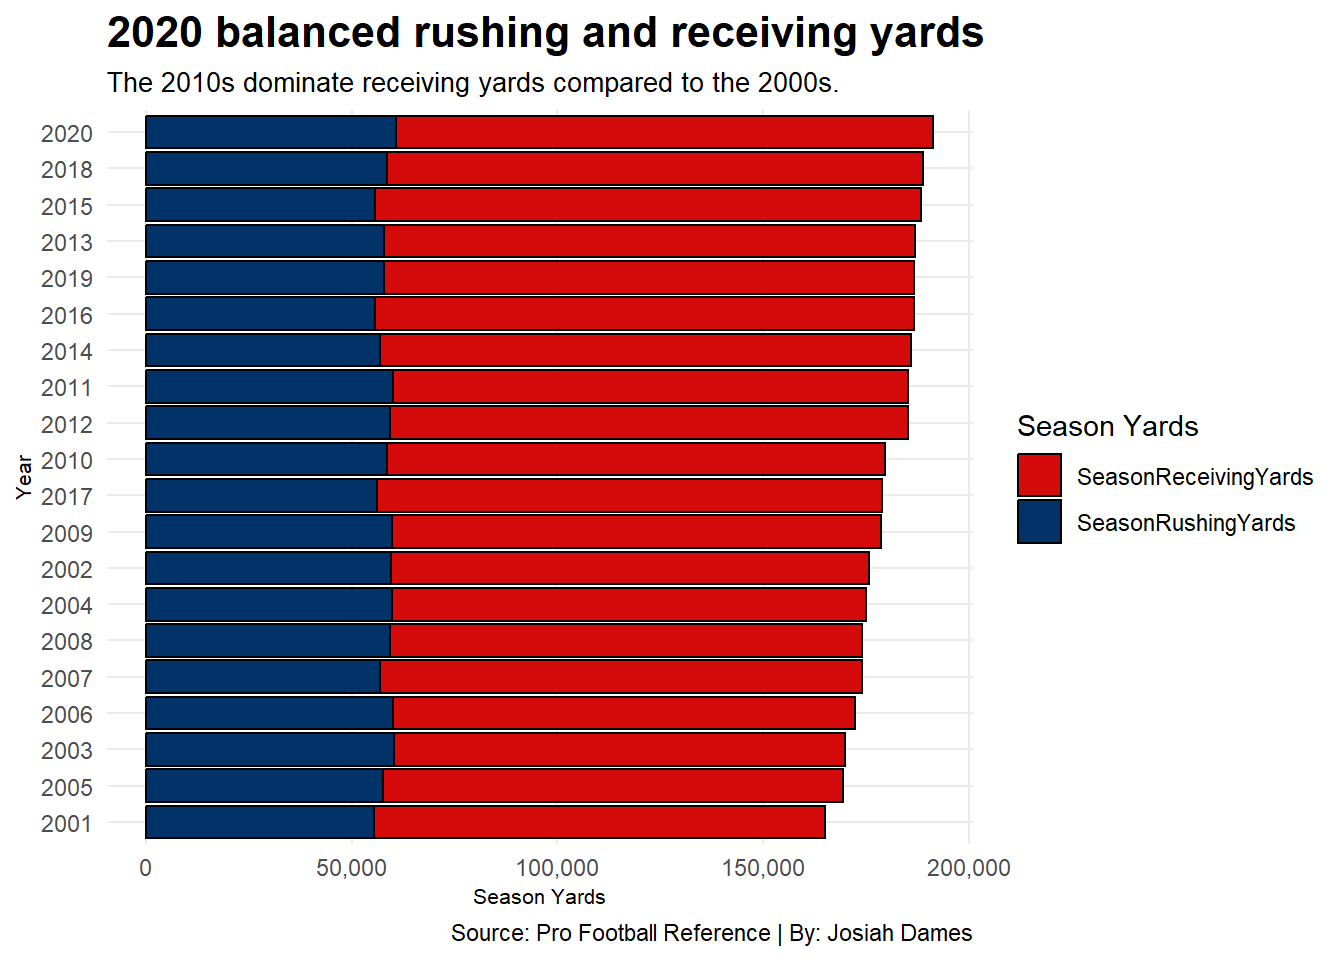
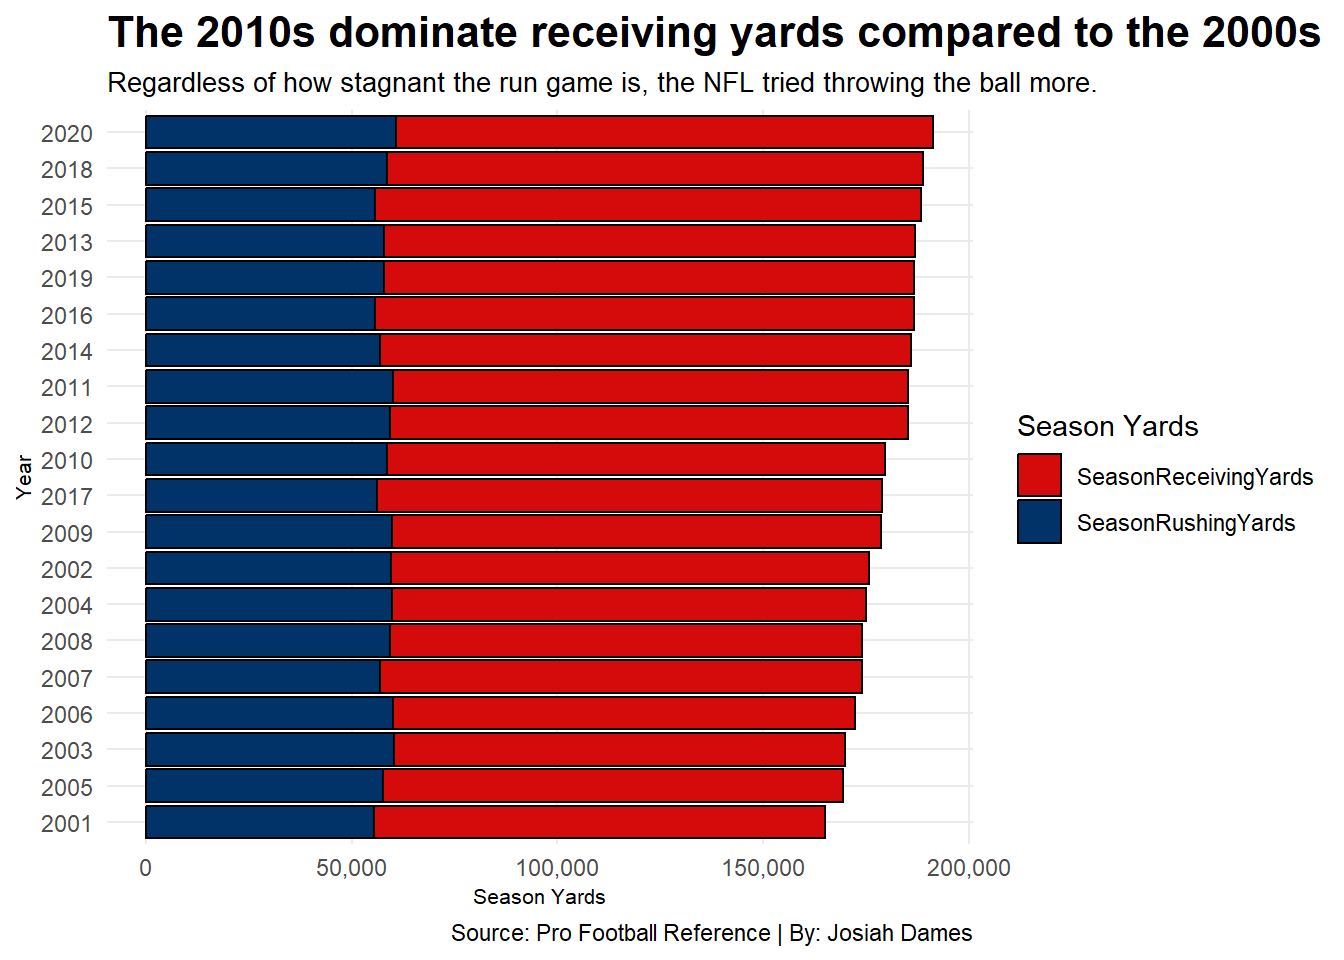
Initial Commit

Changed region(s): [[0.0625, 0.0, 1.0, 0.0938]]

diff --git a/posts/nfl-passing-or-rushing-league/index.html b/posts/nfl-passing-or-rushing-league/index.html
@@ -236,8 +236,8 @@ pre > code.sourceCode > span > a:first-child::before { text-decoration: underlin
 <span id="cb2-26"><a href="#cb2-26" aria-hidden="true" tabindex="-1"></a>  <span class="fu">theme_minimal</span>() <span class="sc">+</span></span>
 <span id="cb2-27"><a href="#cb2-27" aria-hidden="true" tabindex="-1"></a>  <span class="fu">labs</span>(</span>
 <span id="cb2-28"><a href="#cb2-28" aria-hidden="true" tabindex="-1"></a>    <span class="at">x =</span> <span class="st">"Rushing Yards"</span>, <span class="at">y =</span> <span class="st">"Receiving Yards"</span>,</span>
-<span id="cb2-29"><a href="#cb2-29" aria-hidden="true" tabindex="-1"></a>    <span class="at">title =</span> <span class="st">"The NFL lacks consistency on the run game"</span>,</span>
-<span id="cb2-30"><a href="#cb2-30" aria-hidden="true" tabindex="-1"></a>    <span class="at">subtitle =</span> <span class="st">"The 2010s emphasized offense in the air more than the 2000s, especially in the mid-2010s."</span>,</span>
+<span id="cb2-29"><a href="#cb2-29" aria-hidden="true" tabindex="-1"></a>    <span class="at">title =</span> <span class="st">"NFL offenses lack consistency on the run game"</span>,</span>
+<span id="cb2-30"><a href="#cb2-30" aria-hidden="true" tabindex="-1"></a>    <span class="at">subtitle =</span> <span class="st">"2020 was probably the most balanced year between both offenses ever."</span>,</span>
 <span id="cb2-31"><a href="#cb2-31" aria-hidden="true" tabindex="-1"></a>    <span class="at">caption =</span> <span class="st">"Source: Pro Football Reference | By: Josiah Dames"</span></span>
 <span id="cb2-32"><a href="#cb2-32" aria-hidden="true" tabindex="-1"></a>  ) <span class="sc">+</span></span>
 <span id="cb2-33"><a href="#cb2-33" aria-hidden="true" tabindex="-1"></a>  <span class="fu">geom_text</span>(</span>
@@ -291,7 +291,8 @@ pre > code.sourceCode > span > a:first-child::before { text-decoration: underlin
 </details>
 </div>
 <p>As we look at the two decades of football, the 2000s show that they emphasize the run game a lot more and there isn’t much difference between the yards in the air or on the ground. The 2010s, however, were all over the place.</p>
-<p>(WHAT WAS GOING ON IN THE NFL AT THAT TIME???)</p>
+<p>According to <a href="https://www.foxsports.com/stories/nfl/the-nfls-offense-of-the-decade/">Fox Sports</a>, the 2010s offense was solely in the air. This can be proven by many teams’ offensive statistics. The teams that were noted were the 2011 New Orleans Saints, 2011 Green Bay Packers, 2013 Denver Broncos, 2016 Atlanta Falcons, 2018 Kansas City Chiefs, and 2019 Baltimore Ravens. By itself, the Falcons’ Super Bowl LI run in 2016 had quarterback Matt Ryan throwing for almost 5,000 yards and 38 touchdowns in the regular season with the offense the highest grade offense since in the 2010s at 94.1. That is very impressive.</p>
+<p>This leads to the next question: how much did the rushing and passing game change by year? In order to see the dip in rushing and rise in passing offense, we need to see each year side by side.</p>
 <p>The 2000s will be colored Rosso Corsa and the 2010s will be colored Dark Midnight Blue.</p>
 <div class="cell">
 <details class="code-fold">
@@ -303,15 +304,15 @@ pre > code.sourceCode > span > a:first-child::before { text-decoration: underlin
 <span id="cb4-5"><a href="#cb4-5" aria-hidden="true" tabindex="-1"></a>  <span class="fu">filter</span>(Year <span class="sc">&gt;=</span> <span class="dv">2011</span> <span class="sc">&amp;</span> Year <span class="sc">&lt;=</span> <span class="dv">2020</span>)</span>
 <span id="cb4-6"><a href="#cb4-6" aria-hidden="true" tabindex="-1"></a></span>
 <span id="cb4-7"><a href="#cb4-7" aria-hidden="true" tabindex="-1"></a><span class="fu">ggplot</span>() <span class="sc">+</span> </span>
-<span id="cb4-8"><a href="#cb4-8" aria-hidden="true" tabindex="-1"></a>  <span class="fu">geom_line</span>(<span class="at">data=</span>nfl, <span class="fu">aes</span>(<span class="at">x=</span>Year, <span class="at">y=</span>RushingYards), <span class="at">color=</span><span class="st">"grey"</span>) <span class="sc">+</span></span>
-<span id="cb4-9"><a href="#cb4-9" aria-hidden="true" tabindex="-1"></a>  <span class="fu">geom_line</span>(<span class="at">data=</span>decadeone, <span class="fu">aes</span>(<span class="at">x=</span>Year, <span class="at">y=</span>RushingYards), <span class="at">color=</span><span class="st">"#d50a0a"</span>) <span class="sc">+</span></span>
-<span id="cb4-10"><a href="#cb4-10" aria-hidden="true" tabindex="-1"></a>  <span class="fu">geom_line</span>(<span class="at">data=</span>decadetwo, <span class="fu">aes</span>(<span class="at">x=</span>Year, <span class="at">y=</span>RushingYards), <span class="at">color=</span><span class="st">"#013369"</span>) <span class="sc">+</span></span>
+<span id="cb4-8"><a href="#cb4-8" aria-hidden="true" tabindex="-1"></a>  <span class="fu">geom_line</span>(<span class="at">data=</span>nfl, <span class="fu">aes</span>(<span class="at">x=</span>Year, <span class="at">y=</span>ReceivingYards), <span class="at">color=</span><span class="st">"grey"</span>) <span class="sc">+</span></span>
+<span id="cb4-9"><a href="#cb4-9" aria-hidden="true" tabindex="-1"></a>  <span class="fu">geom_line</span>(<span class="at">data=</span>decadeone, <span class="fu">aes</span>(<span class="at">x=</span>Year, <span class="at">y=</span>ReceivingYards), <span class="at">color=</span><span class="st">"#d50a0a"</span>) <span class="sc">+</span></span>
+<span id="cb4-10"><a href="#cb4-10" aria-hidden="true" tabindex="-1"></a>  <span class="fu">geom_line</span>(<span class="at">data=</span>decadetwo, <span class="fu">aes</span>(<span class="at">x=</span>Year, <span class="at">y=</span>ReceivingYards), <span class="at">color=</span><span class="st">"#013369"</span>) <span class="sc">+</span></span>
 <span id="cb4-11"><a href="#cb4-11" aria-hidden="true" tabindex="-1"></a>  <span class="fu">labs</span>(</span>
-<span id="cb4-12"><a href="#cb4-12" aria-hidden="true" tabindex="-1"></a>    <span class="at">y =</span> <span class="st">"Rushing Yards"</span>,</span>
+<span id="cb4-12"><a href="#cb4-12" aria-hidden="true" tabindex="-1"></a>    <span class="at">y =</span> <span class="st">"Receiving Yards"</span>,</span>
 <span id="cb4-13"><a href="#cb4-13" aria-hidden="true" tabindex="-1"></a>    <span class="at">x =</span> <span class="st">"Year"</span>,</span>
-<span id="cb4-14"><a href="#cb4-14" aria-hidden="true" tabindex="-1"></a>    <span class="at">fill =</span> <span class="st">"Rushing Yards"</span>,</span>
-<span id="cb4-15"><a href="#cb4-15" aria-hidden="true" tabindex="-1"></a>    <span class="at">title =</span> <span class="st">"The run game failed in the 2010s"</span>,</span>
-<span id="cb4-16"><a href="#cb4-16" aria-hidden="true" tabindex="-1"></a>    <span class="at">subtitle =</span> <span class="st">"2004 had gained more yards while 2020 struggled to move the ball per attempt."</span>,</span>
+<span id="cb4-14"><a href="#cb4-14" aria-hidden="true" tabindex="-1"></a>    <span class="at">fill =</span> <span class="st">"Receiving Yards"</span>,</span>
+<span id="cb4-15"><a href="#cb4-15" aria-hidden="true" tabindex="-1"></a>    <span class="at">title =</span> <span class="st">"The pass game is surprisingly consistent the last two decades"</span>,</span>
+<span id="cb4-16"><a href="#cb4-16" aria-hidden="true" tabindex="-1"></a>    <span class="at">subtitle =</span> <span class="st">"The pass game's effectiveness drops in 2017 but the next few years picked up the slack."</span>,</span>
 <span id="cb4-17"><a href="#cb4-17" aria-hidden="true" tabindex="-1"></a>    <span class="at">caption =</span> <span class="st">"Source: Pro Football Reference | By: Josiah Dames"</span></span>
 <span id="cb4-18"><a href="#cb4-18" aria-hidden="true" tabindex="-1"></a>  ) <span class="sc">+</span></span>
 <span id="cb4-19"><a href="#cb4-19" aria-hidden="true" tabindex="-1"></a>  <span class="fu">scale_y_continuous</span>(<span class="at">labels =</span> scales<span class="sc">::</span>comma) <span class="sc">+</span></span>
@@ -333,19 +334,21 @@ pre > code.sourceCode > span > a:first-child::before { text-decoration: underlin
 </div>
 </div>
 </div>
+<p>We love our big pass plays now, they’re a lot more exciting to watch. Is the NFL trying to push for this kind of offense, just so it can get more clicks for crazy highlights by wide receivers? Maybe, but maybe there is something else to this.</p>
+<p>Let’s look at the run game throughout the last two decades.</p>
 <div class="cell">
 <details class="code-fold">
 <summary>Code</summary>
 <div class="sourceCode cell-code" id="cb5"><pre class="sourceCode r code-with-copy"><code class="sourceCode r"><span id="cb5-1"><a href="#cb5-1" aria-hidden="true" tabindex="-1"></a><span class="fu">ggplot</span>() <span class="sc">+</span> </span>
-<span id="cb5-2"><a href="#cb5-2" aria-hidden="true" tabindex="-1"></a>  <span class="fu">geom_line</span>(<span class="at">data=</span>nfl, <span class="fu">aes</span>(<span class="at">x=</span>Year, <span class="at">y=</span>ReceivingYards), <span class="at">color=</span><span class="st">"grey"</span>) <span class="sc">+</span></span>
-<span id="cb5-3"><a href="#cb5-3" aria-hidden="true" tabindex="-1"></a>  <span class="fu">geom_line</span>(<span class="at">data=</span>decadeone, <span class="fu">aes</span>(<span class="at">x=</span>Year, <span class="at">y=</span>ReceivingYards), <span class="at">color=</span><span class="st">"#d50a0a"</span>) <span class="sc">+</span></span>
-<span id="cb5-4"><a href="#cb5-4" aria-hidden="true" tabindex="-1"></a>  <span class="fu">geom_line</span>(<span class="at">data=</span>decadetwo, <span class="fu">aes</span>(<span class="at">x=</span>Year, <span class="at">y=</span>ReceivingYards), <span class="at">color=</span><span class="st">"#013369"</span>) <span class="sc">+</span></span>
+<span id="cb5-2"><a href="#cb5-2" aria-hidden="true" tabindex="-1"></a>  <span class="fu">geom_line</span>(<span class="at">data=</span>nfl, <span class="fu">aes</span>(<span class="at">x=</span>Year, <span class="at">y=</span>RushingYards), <span class="at">color=</span><span class="st">"grey"</span>) <span class="sc">+</span></span>
+<span id="cb5-3"><a href="#cb5-3" aria-hidden="true" tabindex="-1"></a>  <span class="fu">geom_line</span>(<span class="at">data=</span>decadeone, <span class="fu">aes</span>(<span class="at">x=</span>Year, <span class="at">y=</span>RushingYards), <span class="at">color=</span><span class="st">"#d50a0a"</span>) <span class="sc">+</span></span>
+<span id="cb5-4"><a href="#cb5-4" aria-hidden="true" tabindex="-1"></a>  <span class="fu">geom_line</span>(<span class="at">data=</span>decadetwo, <span class="fu">aes</span>(<span class="at">x=</span>Year, <span class="at">y=</span>RushingYards), <span class="at">color=</span><span class="st">"#013369"</span>) <span class="sc">+</span></span>
 <span id="cb5-5"><a href="#cb5-5" aria-hidden="true" tabindex="-1"></a>  <span class="fu">labs</span>(</span>
-<span id="cb5-6"><a href="#cb5-6" aria-hidden="true" tabindex="-1"></a>    <span class="at">y =</span> <span class="st">"Receiving Yards"</span>,</span>
+<span id="cb5-6"><a href="#cb5-6" aria-hidden="true" tabindex="-1"></a>    <span class="at">y =</span> <span class="st">"Rushing Yards"</span>,</span>
 <span id="cb5-7"><a href="#cb5-7" aria-hidden="true" tabindex="-1"></a>    <span class="at">x =</span> <span class="st">"Year"</span>,</span>
-<span id="cb5-8"><a href="#cb5-8" aria-hidden="true" tabindex="-1"></a>    <span class="at">fill =</span> <span class="st">"Receiving Yards"</span>,</span>
-<span id="cb5-9"><a href="#cb5-9" aria-hidden="true" tabindex="-1"></a>    <span class="at">title =</span> <span class="st">"Offense in the air consistently grows each year"</span>,</span>
-<span id="cb5-10"><a href="#cb5-10" aria-hidden="true" tabindex="-1"></a>    <span class="at">subtitle =</span> <span class="st">"2017 dropped the passing game's effectiveness but picked back up."</span>,</span>
+<span id="cb5-8"><a href="#cb5-8" aria-hidden="true" tabindex="-1"></a>    <span class="at">fill =</span> <span class="st">"Rushing Yards"</span>,</span>
+<span id="cb5-9"><a href="#cb5-9" aria-hidden="true" tabindex="-1"></a>    <span class="at">title =</span> <span class="st">"The run game was not the top priority in the 2010s"</span>,</span>
+<span id="cb5-10"><a href="#cb5-10" aria-hidden="true" tabindex="-1"></a>    <span class="at">subtitle =</span> <span class="st">"The mid-2010s had dropped productivity as low as 2001, which hadn't been seen in a decade."</span>,</span>
 <span id="cb5-11"><a href="#cb5-11" aria-hidden="true" tabindex="-1"></a>    <span class="at">caption =</span> <span class="st">"Source: Pro Football Reference | By: Josiah Dames"</span></span>
 <span id="cb5-12"><a href="#cb5-12" aria-hidden="true" tabindex="-1"></a>  ) <span class="sc">+</span></span>
 <span id="cb5-13"><a href="#cb5-13" aria-hidden="true" tabindex="-1"></a>  <span class="fu">scale_y_continuous</span>(<span class="at">labels =</span> scales<span class="sc">::</span>comma) <span class="sc">+</span></span>
@@ -367,8 +370,10 @@ pre > code.sourceCode > span > a:first-child::before { text-decoration: underlin
 </div>
 </div>
 </div>
-<p>However, when we look at both decades, there are some years that did better than others.</p>
-<p>Then this begs the question: where does each team rank individually with their rushing and receiving yards?</p>
+<p>If you were a running back in the mid-2010s, you were not getting enough love. Luckily, it looks like the trend for rushing is going up slowly. Fortunately, there is an explanation for this.</p>
+<p><a href="https://operations.nfl.com/gameday/analytics/stats-articles/how-defensive-schemes-are-shaping-the-nfls-passing-game-in-2024/">NFL Football Operations</a> explain that in recent seasons, the passing yards per game is slowly dropped from 496 in 2020 to 403 in 2024. This means that defenses across the league have slowly adjusted to the passing game. Defenses have embraced Cover 2, Cover 4, and Cover 6, and defenders are lining up farther back than in 2019. If this trend continues, maybe the NFL moves back to a more dominant rush league.</p>
+<p>However, every year is different than each other and random things occur, affecting both the run and passing games. There are some years that did better than others. This begs the question: where does each year rank individually with their rushing and receiving yards?</p>
+<p>The receiving yards will be colored Rosso Corsa and the rushing yards will be colored Dark Midnight Blue.</p>
 <div class="cell">
 <details class="code-fold">
 <summary>Code</summary>
@@ -397,8 +402,8 @@ pre > code.sourceCode > span > a:first-child::before { text-decoration: underlin
 <span id="cb6-23"><a href="#cb6-23" aria-hidden="true" tabindex="-1"></a>    <span class="at">y =</span> <span class="st">"Season Yards"</span>,</span>
 <span id="cb6-24"><a href="#cb6-24" aria-hidden="true" tabindex="-1"></a>    <span class="at">x =</span> <span class="st">"Year"</span>,</span>
 <span id="cb6-25"><a href="#cb6-25" aria-hidden="true" tabindex="-1"></a>    <span class="at">fill =</span> <span class="st">"Season Yards"</span>,</span>
-<span id="cb6-26"><a href="#cb6-26" aria-hidden="true" tabindex="-1"></a>    <span class="at">title =</span> <span class="st">"2020 balanced rushing and receiving yards"</span>,</span>
-<span id="cb6-27"><a href="#cb6-27" aria-hidden="true" tabindex="-1"></a>    <span class="at">subtitle =</span> <span class="st">"The 2010s dominate receiving yards compared to the 2000s."</span>,</span>
+<span id="cb6-26"><a href="#cb6-26" aria-hidden="true" tabindex="-1"></a>    <span class="at">title =</span> <span class="st">"The 2010s dominate receiving yards compared to the 2000s"</span>,</span>
+<span id="cb6-27"><a href="#cb6-27" aria-hidden="true" tabindex="-1"></a>    <span class="at">subtitle =</span> <span class="st">"Regardless of how stagnant the run game is, the NFL tried throwing the ball more."</span>,</span>
 <span id="cb6-28"><a href="#cb6-28" aria-hidden="true" tabindex="-1"></a>    <span class="at">caption =</span> <span class="st">"Source: Pro Football Reference | By: Josiah Dames"</span></span>
 <span id="cb6-29"><a href="#cb6-29" aria-hidden="true" tabindex="-1"></a>  ) <span class="sc">+</span></span>
 <span id="cb6-30"><a href="#cb6-30" aria-hidden="true" tabindex="-1"></a>  <span class="fu">scale_y_continuous</span>(<span class="at">labels =</span> scales<span class="sc">::</span>comma) <span class="sc">+</span></span>
@@ -418,7 +423,7 @@ pre > code.sourceCode > span > a:first-child::before { text-decoration: underlin
 </div>
 </div>
 </div>
-<p>But what about each years’ efficiency on both rushing and receiving yards? Surely the better year would have more yards per attempt on both sides of offense.</p>
+<p>Once again, the 2010s dominate the top spots. But what about each years’ offensive efficiency? Surely the years with the most yards have the best yards per attempt rate on both sides of offense.</p>
 <div class="cell">
 <details class="code-fold">
 <summary>Code</summary>
@@ -447,8 +452,8 @@ pre > code.sourceCode > span > a:first-child::before { text-decoration: underlin
 <span id="cb7-23"><a href="#cb7-23" aria-hidden="true" tabindex="-1"></a>    <span class="at">y =</span> <span class="st">"Yards Per Attempt"</span>,</span>
 <span id="cb7-24"><a href="#cb7-24" aria-hidden="true" tabindex="-1"></a>    <span class="at">x =</span> <span class="st">"Year"</span>,</span>
 <span id="cb7-25"><a href="#cb7-25" aria-hidden="true" tabindex="-1"></a>    <span class="at">fill =</span> <span class="st">"Yards Per Attempt"</span>,</span>
-<span id="cb7-26"><a href="#cb7-26" aria-hidden="true" tabindex="-1"></a>    <span class="at">title =</span> <span class="st">"2011 achieved more yards per attempt on both sides"</span>,</span>
-<span id="cb7-27"><a href="#cb7-27" aria-hidden="true" tabindex="-1"></a>    <span class="at">subtitle =</span> <span class="st">"2004 gained more yards on average compared to 2020 per attempt."</span>,</span>
+<span id="cb7-26"><a href="#cb7-26" aria-hidden="true" tabindex="-1"></a>    <span class="at">title =</span> <span class="st">"2011 was the most efficient year"</span>,</span>
+<span id="cb7-27"><a href="#cb7-27" aria-hidden="true" tabindex="-1"></a>    <span class="at">subtitle =</span> <span class="st">"2004 gained more yards per attempt on average compared to 2020."</span>,</span>
 <span id="cb7-28"><a href="#cb7-28" aria-hidden="true" tabindex="-1"></a>    <span class="at">caption =</span> <span class="st">"Source: Pro Football Reference | By: Josiah Dames"</span></span>
 <span id="cb7-29"><a href="#cb7-29" aria-hidden="true" tabindex="-1"></a>  ) <span class="sc">+</span></span>
 <span id="cb7-30"><a href="#cb7-30" aria-hidden="true" tabindex="-1"></a>  <span class="fu">scale_y_continuous</span>(<span class="at">labels =</span> scales<span class="sc">::</span>comma, <span class="at">breaks=</span><span class="fu">c</span>(<span class="dv">1</span><span class="sc">:</span><span class="dv">15</span>)) <span class="sc">+</span></span>
@@ -468,8 +473,8 @@ pre > code.sourceCode > span > a:first-child::before { text-decoration: underlin
 </div>
 </div>
 </div>
-<p>It’s safe to say that 2004, while not having as many rushing yards compared to the 2010s, was a very effective year.</p>
-<p>While the total yards for rushing and receiving yards changes every year, recently there has been in increase in receiving yards and a steady consistency for the run game. The run game has increased but it is outpaced by the pass game.</p>
+<p>Just because you try throw or run the ball more, doesn’t always mean it is as effective. If 2011 is the most effective year for the pass game, maybe former Green Bay quarterback Aaron Rodgers and the 2011 Packers could be argued as one of, if not, the most efficient offense in all of NFL history.</p>
+<p>One thing is for certain: nothing is ever consistent. Eventually, the defense will figure it out, and then it’s back to the drawing board.</p>
 
 
 

diff --git a/index.html b/index.html
@@ -205,7 +205,7 @@ window.Quarto = {
 
 <div class="quarto-listing quarto-listing-container-default" id="listing-listing">
 <div class="list quarto-listing-default">
-<div class="quarto-post image-right" data-index="0" data-categories="NFL" data-listing-date-sort="1731823200000" data-listing-file-modified-sort="1731724172538" data-listing-date-modified-sort="NaN" data-listing-reading-time-sort="8" data-listing-word-count-sort="1531">
+<div class="quarto-post image-right" data-index="0" data-categories="NFL" data-listing-date-sort="1731823200000" data-listing-file-modified-sort="1731728373211" data-listing-date-modified-sort="NaN" data-listing-reading-time-sort="10" data-listing-word-count-sort="1881">
 <div class="thumbnail">
 <p><a href="./posts/nfl-passing-or-rushing-league/index.html" class="no-external"></a></p><a href="./posts/nfl-passing-or-rushing-league/index.html" class="no-external">
 <p><img loading="lazy" src="./posts/nfl-passing-or-rushing-league/image.png" class="thumbnail-image"></p>
